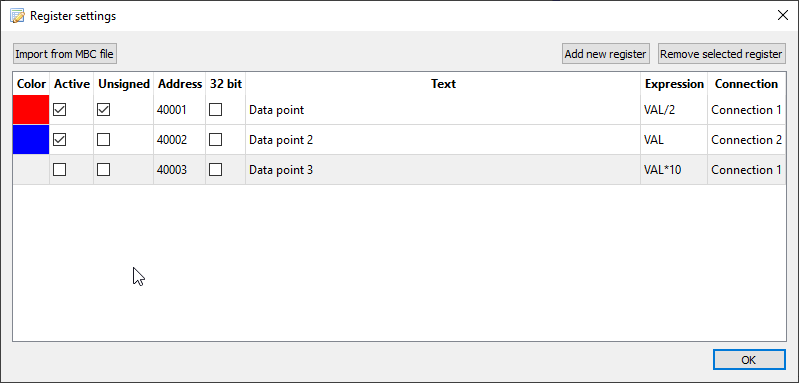
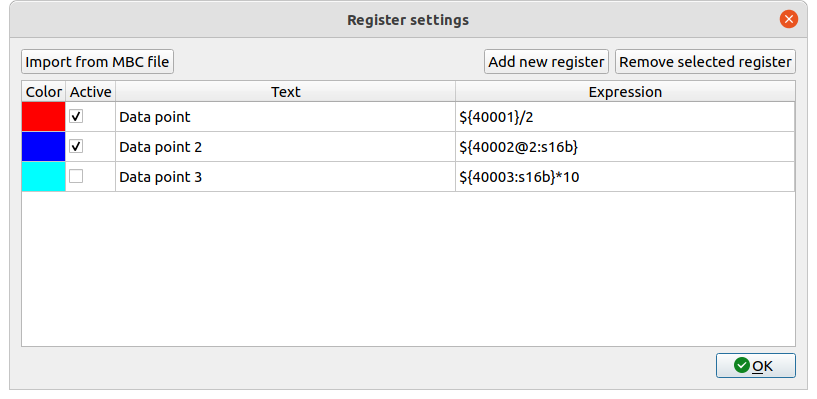
Update documentation

diff --git a/docs/pages/configuration.md b/docs/pages/configuration.md
@@ -2,13 +2,13 @@
 
 ## Configure register settings
 
-When opening *ModbusScope*, no Modbus registers are added. First click on *Register Settings* in the tool bar of  the interface. This will open a window where registers can be added and adjusted.
+When opening *ModbusScope*, no Modbus registers are added . First click on *Register Settings* in the toolbar of the interface. This will open a window where registers can be added and edited.
 
 ### Add Modbus registers
 
-In the below dialog Modbus registers can be added either manually or by importing from a *.mbc* file. When a *.mbs* file is opened, registers will already be present in the dialog.
+In the *Register settings* dialog, Modbus registers can be added either manually or by importing from a *.mbc* file. When a *.mbs* file is opened, some registers will already be present in the dialog.
 
-When the registers are added, they can be adjusted. Such as updating the name and changing to a specific color. An expression can be used to update the value before the data is added to the graph (and log). This calculations can be used to transform the values from a device to a format that is more clear for the user. It is also possible to select a specific connection on which the value is polled. 
+When the registers are added, they can be adjusted afterwards. Such as updating the name and changing to a specific color. An expression is used to define which data is added to the graph (and log). These expressions consist of a calculation which can contains several Modbus register for multiple connections. The user is free to combine calculations and registers in one valid expression. This allows the user to log the data in a format that is clear for the user.
 
 The Modbus standard defines the range for the holding register as 40001 to 49999. But the offset 40001 is removed in the data that will be send in the packet. Since the field for the address is 16-bit, the actual possible range is 40001 to 105536. ModbusScope supports the full range to support as many devices as possible.
 
@@ -16,30 +16,38 @@ The Modbus standard defines the range for the holding register as 40001 to 49999
 
 ![image](../_static/user_manual/register_settings_dialog_with_registers.png)
 
+![image](../_static/user_manual/add_register_dialog.png)
+
 ### Compose expression window
 
-As mentioned before, an expression can be used to transform the raw value from the device to something more understandable by the user. This expression can be tested in the *compose expression* window. This windows can be opened by double clicking the expression cell.
+As mentioned before, an expression can be used to transform the raw value from the device to something more understandable to the user. This expression can be tested in the *compose expression* window. This windows can be opened by double clicking the expression cell.
 
-The expression can be freely updated and up to 3 input values can be evaluated.
+The expression can be freely updated. The register definition will be validated while entering. When the register definition is green, the register definition is valid. The example input table can be used to enter values to test and verify the expression with actual values.
 
 ![image](../_static/user_manual/expression_dialog.png)
 
 #### Expressions
 
-The value read via Modbus is represented as `VAL`. The most common binary operators are supported (`!`, `|`, `&`, `<<`, `>>`). The basic arithmetic operators are also supported (`+`,` -`, `*`, `/`, `%` and `^`). Hexadecimal numbers can be represented with the `0x` prefix. Binary are represented with `0b` prefix. Floating point numbers are also supported. Both a decimal point as comma can be used. The first encountered characters per expression is used as floating point separator.
+A Modbus register read is represented as `${REG\[@CONN]\[:TYPE]}`. Multiple registers read can be combined in one expression.
+
+* `${45332}` => 16-bit unsigned using connection 1
+* `${45332: s16b}` => 16-bit signed using connection 1
+* `${45332@2: 32b}` => 32-bit unsigned using connection 2
+* `${45332@2}` => 16-bit unsigned using connection 2
+
+The most common binary operators are supported (`!`, `|`, `&`, `<<`, `>>`). The basic arithmetic operators are also supported (`+`, `-`, `*`, `/`, `%`, `^`). Hexadecimal numbers can be represented with the `0x`. Binary are represented with `0b` prefix. Floating point number are also supported. Both a decimal point as comma can be used. The first encountered character is used as floating point separator.
 
 Some examples:
 
-* `(VAL + 10 / 2) / 10`
-
-* `(VAL & 0xFF) | 1`
-* `0xFF & 0b1111`
-
-* `VAL * 0.001`
+* `${40001: s16b} + ${40002@2} * 2`
+* `${40001: s32b} * 1.1`
+* `${40001} + 0x1000`
+* `${40001} & 0b11111000`
+* `()${40001} >> 8) & 0xFF`
 
 #### Expression error
 
-When the expression contains an error or when the combination of the expression with a specific input value generates an error, no output value is shown and a specific error message can be visualized by hovering over the output field.
+When the expression contains an error or when the combination of the expression with a specific input value generates an error, no output value is shown. A specific error message will be shown and the register definition will be indicated in red.
 
 ![image](../_static/user_manual/expression_dialog_error.png)
 
